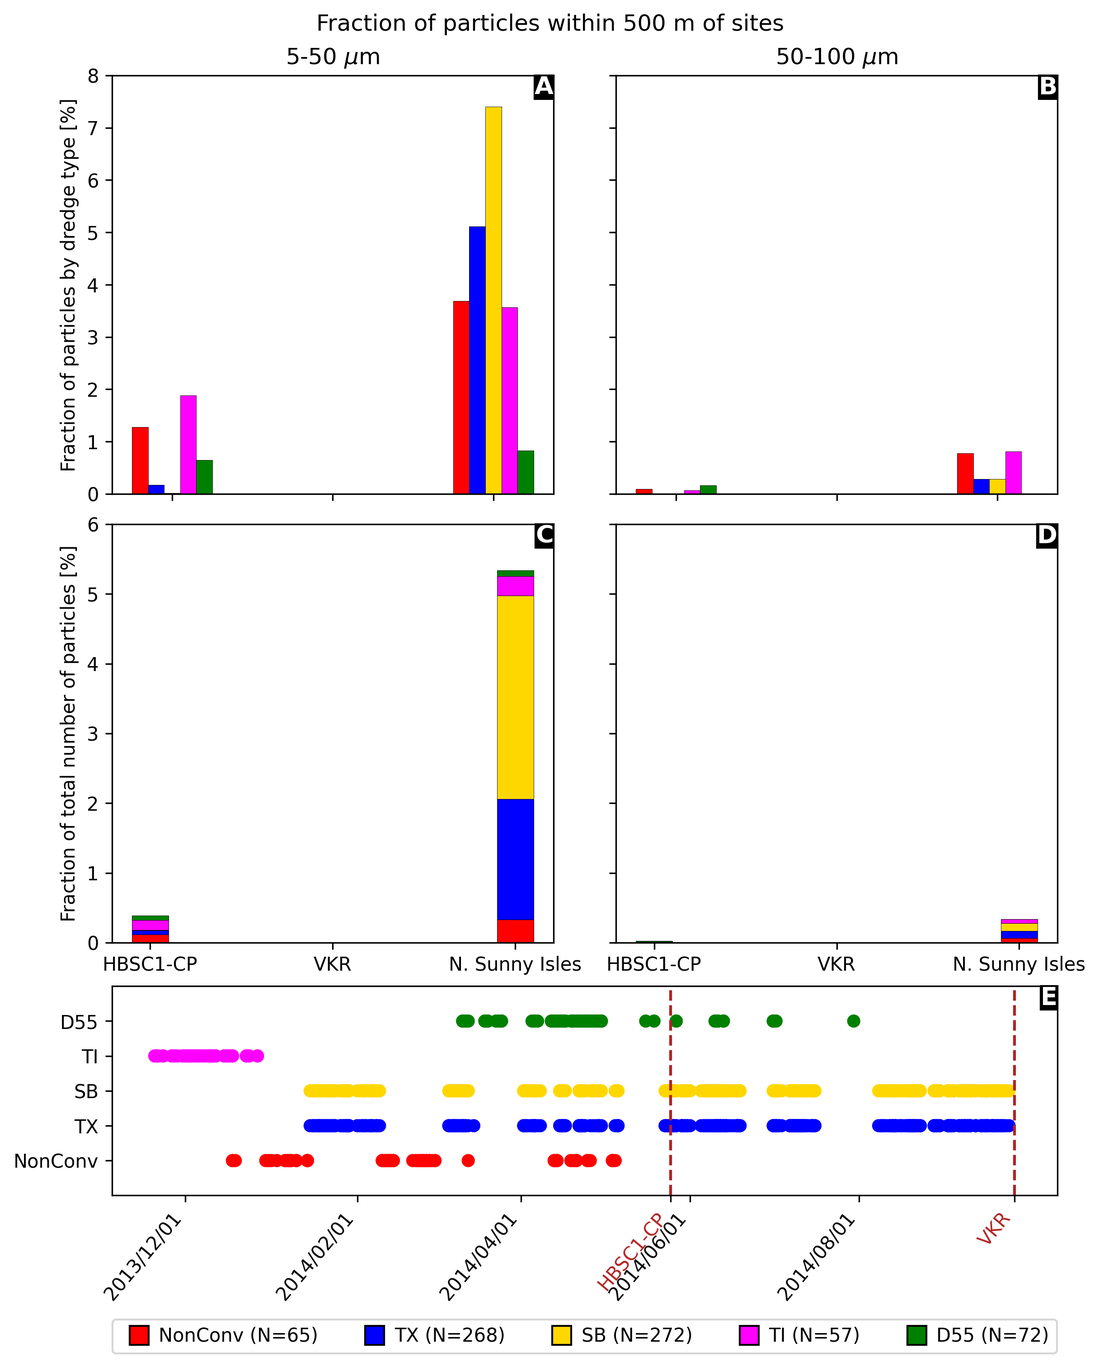
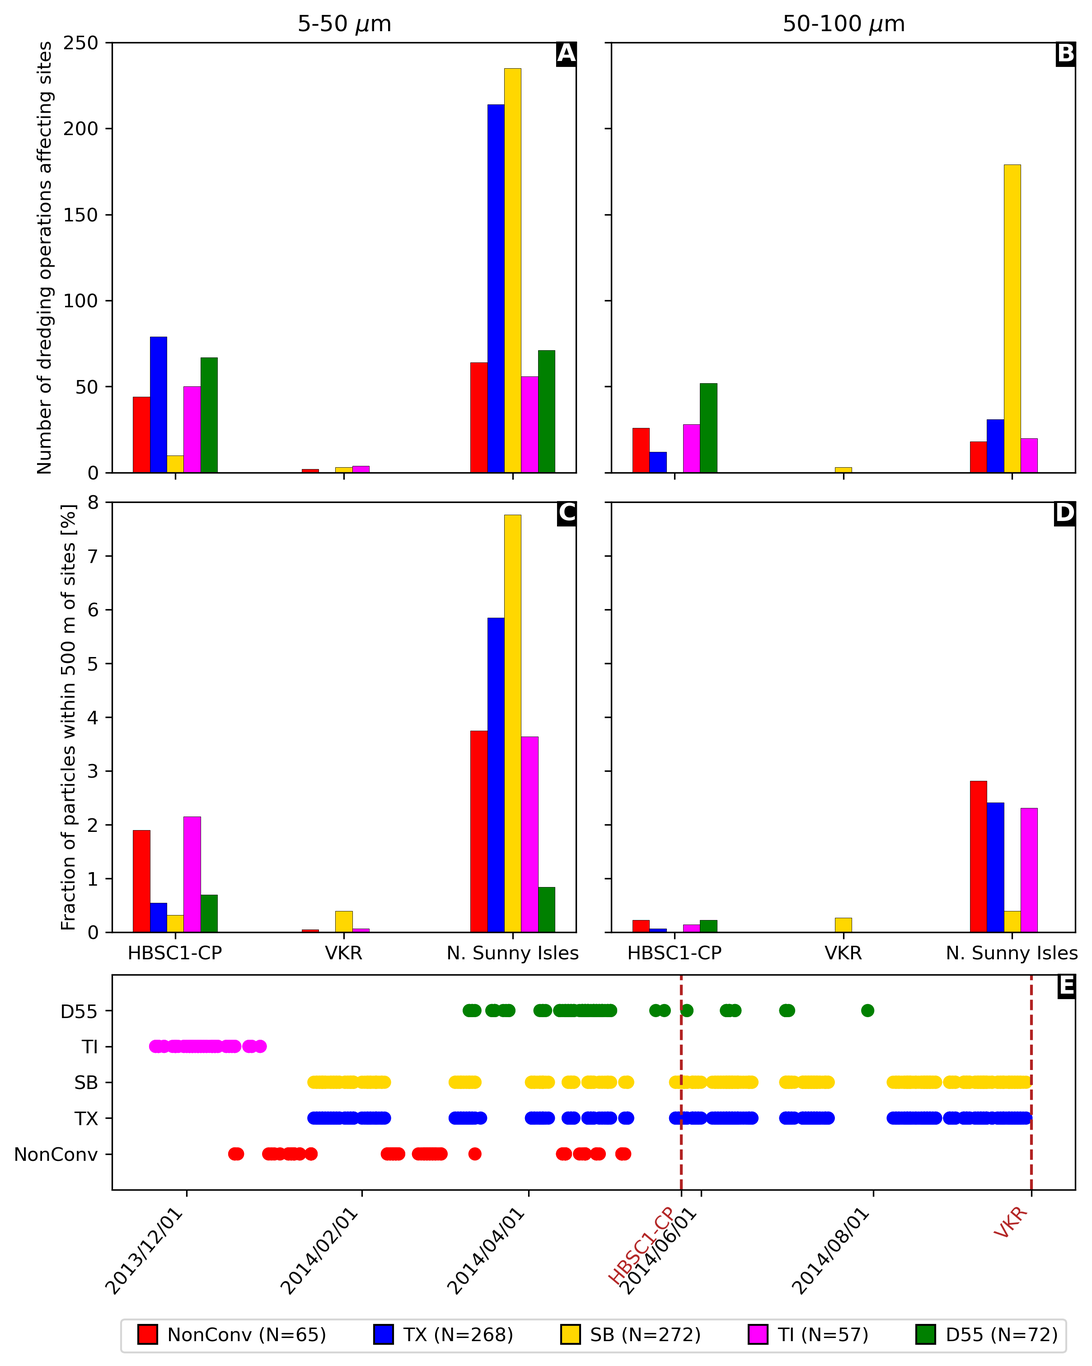
update barplot

Changed region(s): [[0.0, 0.0, 0.993, 0.995], [0.0931, 0.8707, 0.4965, 0.995], [0.1241, 0.7463, 0.2482, 0.7774]]

diff --git a/main.tex b/main.tex
@@ -281,11 +281,11 @@ As sediment dispersion is dependent on the grain size, we modeled the dispersal 
 
 Dredging operations performed during the expansion of PoM were characterized in our dataset by a date, a location and  a type of dredge (Fig. \ref{fig:onset_mesh}B). In the absence of information about the exact time of the dredging, sediment particles were released from the dredging location during a whole day at a rate of 80 particles/hour in the model. To account for the motion of spider barges between the dredging and disposal sites, particles were released every 500 m along a straight line joining the dredging location to the ODMDS (see Fig. \ref{fig:onset_mesh}A) for every dredging operation labelled as SB.
 
-The potential impact of the modeled sediments on reefs was first evaluated by quantifying the turbidity and sedimentation generated by the different dredging operations over coral reefs. The occurrence of high turbidity over reefs was assessed based on the concentration of suspended sediment particles in the model. This concentration was computed by counting the number of suspended particles inside the cells of a regular 200 m $\times$ 200 m grid over the entire computational domain. The modeled plumes were then compared against daily plume observations derived from satellite imagery by \cite{cunning2019extensive}\footnote{datasets available at \url{https://github.com/jrcunning/pom-dredge/}} following the methods of \cite{barnes2015sediment} at sites located within 15 km of the dredged channel. As in these two previous studies, we computed  the simulated plume frequency by dividing the number of days during which plumes occurred by the total number of simulated days for all grid cells. The impact of sedimentation was quantified by computing the cumulated concentration of settled particles within the same computational grid. This cumulated concentration was normalized by the total number of simulated time steps to obtain an averaged concentration of deposited particles over the simulated period. Higher values of this indicator would indicate larger sediment deposition over a longer cumulated time.
+The potential impact of the modeled sediments on reefs was first evaluated by quantifying the turbidity and sedimentation generated by the different dredging operations over coral reefs. The occurrence of high turbidity over reefs was assessed based on the concentration of suspended sediment particles in the model. This concentration was computed by counting the number of suspended particles inside the cells of a regular 200 m $\times$ 200 m grid over the entire computational domain. The modeled plumes were then compared against daily plume observations derived from satellite imagery by \cite{cunning2019extensive}\footnote{Datasets available at \url{https://github.com/jrcunning/pom-dredge/}} following the methods of \cite{barnes2015sediment} at sites located within 15 km of the dredged channel. As in these two previous studies, we computed  the simulated plume frequency by dividing the number of days during which plumes occurred by the total number of simulated days for all grid cells. The impact of sedimentation was quantified by computing the cumulated concentration of settled particles within the same computational grid. This cumulated concentration was normalized by the total number of simulated time steps to obtain an averaged concentration of deposited particles over the simulated period. Higher values of this indicator would indicate larger sediment deposition over a longer cumulated time.
 
 The potential impact of dredging on the onset of the SCTLD outbreak was summarized at five monitoring sites where signs of disease were reported. Four sites were reefs where disease was reported in 2014 by \cite{precht2016unprecedented}. The fifth site was station HBSC1-CP, monitored throughout the expansion of PoM, where signs of disease were already reported in May 2014 (\citealp{dial2017}; Fig. \ref{fig:onset_mesh}A, see supplementary material \ref{onset:appendice}). The impact of dredging was assessed by counting the total number of sediment particles originating from each dredging operation that were transported within 500 m of all five sites. This distance was chosen to match the scale of the 500 m $\times$ 500 m reef polygons used in the model \citep{dobbelaere2020coupled}, \modif{as well as the mesh size over reefs}. The resulting numbers of particles were then divided by the total number of sediment particles released by each type of dredging operation. Larger values of this indicator would suggest a greater impact of a given type of dredging operation at a given monitoring sites.  
 
-Additionally, \modif{the dispersal of particles was simulated backward in time from VKR and HBSC1-CP to identify the potential sources of pollution affecting these two sites. Ten particles were released from each site every 450 seconds between September 26, 2014, and October 15, 2013, for a total of 673770 particles by site. These simulations aimed at assessing the possibility of pollution by wastewater leaking from the Miami Central District Municipal WWTP discharge pipe \citep{gintert2019regional}. As leaking wastewater particles were expected to be positively buoyant (Precht, pers. comm.), there were advected backward in time by a combination of SLIM currents and surface Stokes drift from CMEMS' Ocean Wave Reanalysis dataset. We then computed risk maps by counting the number of particle trajectories intersecting each cell of a 200 m $\times$ 200 m grid, following the methodology of~\cite{anselain2023qatar}. This number was normalized by the total number of released particles to obtain the probability for each grid cell to be a source of pollution that would reach the monitoring sites.}
+Additionally, \modif{the dispersal of particles was simulated backward in time from VKR and HBSC1-CP to identify the potential sources of pollution affecting these two sites. Ten particles were released from each site every 450 seconds between September 26, 2014, and October 15, 2013, for a total of 673770 particles by site. These simulations aimed at assessing the possibility of pollution by wastewater leaking from the Miami Central District Municipal WWTP discharge pipe \citep{gintert2019regional}. As leaking wastewater particles were expected to be positively buoyant (Precht, \textit{pers. comm.}), there were advected backward in time by a combination of SLIM currents and surface Stokes drift from CMEMS' Ocean Wave Reanalysis dataset. We then computed risk maps by counting the number of particle trajectories intersecting each cell of a 200 m $\times$ 200 m grid, following the methodology of~\cite{anselain2023qatar}. This number was normalized by the total number of released particles to obtain the probability for each grid cell to be a source of pollution that would reach the monitoring sites.}
 % Neutral buoyancy of wastewater loads was assumed as a limiting scenario for purposes of this study: observations \citep{bloetscher2014use,wanninkhof2005farfield} suggest that buoyant plumes may transport wastewater several kilometers under prevailing currents and winds in this region.
 \modif{This probability was then integrated along the wastewater discharge pipe, modeled as a straight line between Miami Central District Municipal WWTP, located on Virginia Key, and the ocean discharge outfall located at 25$^\circ$44'31''N 80$^\circ$05'10''W \citep{koopman2006ocean}.}
 
@@ -326,20 +326,19 @@ Only grain sizes in the 5-50 $\mu$m range produced plumes consistent with the ob
 \end{figure}
 
 % FIGURE 2 - DEPOSITION
-Deposition results are shown for grain sizes corresponding to silts, which are more likely to carry organic matter and therefore more likely to carry SCTLD agents \citep{erftemeijer2012environmental}(Fig.~\ref{fig:onset_depo}B,C). Sedimentation mostly occurred on reefs located north of the dredge channel, \modif{although some sediment particles deposited along the coastlines of Virginia Key, Key Biscayne and Miami for all modeled grain sizes}. For grain sizes finer than 50$\mu$m, sediments mostly settled on inshore reefs \modif{and along coastlines}, while sedimentation mostly took place on offshore reefs for grain size coarser than 50$\mu$m. \modif{Furthermore, sediment particles finer than 50 $\mu$m, deposited further south and west, with deposition occurring at all pixels between mainland Florida and the reef line. The normalized cumulated depositions at HBSC1-CP and N. Sunny Isles were respectively $\sim6\time10^{-3}$ and $\sim4\times10^{-5}$ for grain sizes of 5-50 $\mu$m, and  $\sim3.8\times10^{-4}$ and $\sim8.3\times 10^{-6}$ for grain sizes of 50-100 $\mu$m. The deposition at these two sites therefore decreased with increasing grain sizes. Although no deposition was recorded in the grid cell containing VKR site, normalized cumulated deposition of $\sim1.27\times10^{-7}$ (resp. $\sim 8.4\times10^{-5}$) was observed in neighboring grid cells for grains sizes of 5-50 $\mu$m (resp. 50-100 $\mu$m).} %The normalized cumulated deposition was around 0.01 particles/m$^2$ at site HBSC1-CP for all grain sizes while it increased from $2.5\times 10^{-7}$ to $1.6\times 10^{-3}$ with increasing grain size at \modif{VKR}.
+Deposition results are shown for grain sizes corresponding to silts, which are more likely to carry organic matter and therefore more likely to carry SCTLD agents \citep{erftemeijer2012environmental}(Fig.~\ref{fig:onset_depo}B,C). Sedimentation mostly occurred on reefs located north of the dredge channel, \modif{although some sediment particles deposited along the coastlines of Virginia Key, Key Biscayne and Miami for all modeled grain sizes}. For grain sizes finer than 50$\mu$m, sediments mostly settled on inshore reefs \modif{and along coastlines}, while sedimentation mostly took place on offshore reefs for grain size coarser than 50$\mu$m. \modif{Furthermore, sediment particles finer than 50 $\mu$m, deposited further south and west, with deposition occurring at all pixels between mainland Florida and the reef line. The normalized cumulated depositions at HBSC1-CP and N. Sunny Isles were respectively $\sim6\times10^{-3}$ and $\sim4\times10^{-5}$ for grain sizes of 5-50 $\mu$m, and  $\sim3.8\times10^{-4}$ and $\sim8.3\times 10^{-6}$ for grain sizes of 50-100 $\mu$m. The deposition at these two sites therefore decreased with increasing grain sizes. Although no deposition was recorded in the grid cell containing VKR site, normalized cumulated deposition of $\sim1.27\times10^{-7}$ (resp. $\sim 8.4\times10^{-5}$) was observed in neighboring grid cells for grains sizes of 5-50 $\mu$m (resp. 50-100 $\mu$m).} %The normalized cumulated deposition was around 0.01 particles/m$^2$ at site HBSC1-CP for all grain sizes while it increased from $2.5\times 10^{-7}$ to $1.6\times 10^{-3}$ with increasing grain size at \modif{VKR}.
 
 % FIGURE 3
-\modif{Except for HBSC1-CP, the monitoring sites located south of the dredged channel were not impacted by a significant fraction of the released sediment particles (Fig.~\ref{fig:onset_bar}). The fraction of released particles reaching VKR site was around $0.001$\% and below $0.0001$\% at Rainbow Reef and Emerald Reef. On the other hand, N. Sunny Isles was the most impacted site, and received up to 12 times more sediment particles than HBSC1-CP. However, the vast majority of the modeled sediment particles ($>90\%$) did not reach any monitoring site. Furthermore, the number of sediment particles reaching the monitoring sites decreased with increasing grain sizes. On average, the total number of particles reaching HBSC1-CP and N. Sunny Isles decreased by $\sim95$\% when the grain size increased from 5-50~$\mu$m to 50-100~$\mu$m. For grain sizes finer than 50~$\mu$m, spider barges (SB) were the dominant source of sediments to N. Sunny Isles, with $>7$\% of the released sediments reaching the site. Monitoring sites received a non-negligible fraction of the sediments released by non-conventional dredging, as it was the second to third most important source of sediments reaching both N. Sunny Isles and HBSC1-CP. This relative metrics might however underestimate the impact of non-conventional dredging operations, as they were expected to release more sediments in the water columns than other types of dredging.} 
+\modif{The sediment particles with grain size 5-50~$\mu$m (resp. 50-100~$\mu$m) released by 87 \% (resp. 34~\%) of all simulated dredging operations reached N Sunny Isles, making it the reef site most impacted by the simulated dredging operations (Fig.~\ref{fig:onset_bar}). HBSC1-CP was the second most impacted site and was affected by 34~\% (resp. 16~\%) of dredging operation with grain sizes of 5-50~$\mu$m (resp. 50-100~$\mu$m). VKR was the third most impacted site, and received at most 0.4\% of the sediment particles released by $<10$ simulated dredging operations. Finally, Rainbow reef and Emerald Reef were marginally impacted by 1 TI dredging. Most modeled sediment particles ($>90$~\%) were not transported within 500~m of the reef sites, and the fraction of particles reaching the monitoring sites decreased with increasing grain sizes. Spider barges were the main sources of sediment particles reaching N. Sunny Isles and VKR. Nonetheless, N. Sunny Isles, VKR and HBSC1-CP were all impacted by non-conventional dredging for grain sizes finer than 50~$\mu$m. Respectively 3.75~\% and 1.9~\% of 5-50~$\mu$m sediment particles produced by non-conventional dredging operation affecting N. Sunny Isles and HBSC1-CP reached these two sites, and respectively 2.8~\% and 0.22~\% for grain sizes of 50-100~$\mu$m. Finally, 0.05~\% of 5-50~$\mu$m sediment particles produced by non-conventional dredging operations affecting VKR reached this site. However, as non-conventional dredging was expected to release more sediments in the water column, this relative metrics might underestimate the impact of non-conventional dredging operations.} 
 
 \begin{figure}
 	\centering
 	\includegraphics[width=.85\textwidth]{figures/aggregated_stokes4_v3_500m_timeline_new.png}
-	% \includegraphics[width=.7\textwidth]{figures/aggregated_stokes4_1000m_timeline.png}
-	\caption{Fraction of the modeled sediment particles released by each dredging operations that drifted within 500 m of \modif{HBSC1-CP, VKR and N. Sunny Isles} for grain sizes of (\textbf{A}) 5-50 $\mu$m  and (\textbf{B}) 50-100 $\mu$m. Fraction of the total number of modeled sediment particles that drifted within 500 m of \modif{HBSC1-CP, VKR and N. Sunny Isles} for grain sizes of (\textbf{C}) 5-50 $\mu$m  and (\textbf{D}) 50-100 $\mu$m. \textbf{E}: Temporal distribution of the simulated dredging operations. The dates of the first reported disease signs at each monitoring site are shown with dotted vertical lines in dark red. Except for HBSC1-CP, the sites located south to the dredged channel were barely impacted by dredging operations, while the northern site of N. Sunny Isles received up to 12 times more sediment particles than HBSC1-CP. The number of simulated dredging operations (N) is given between brackets for each dredging type.}\label{fig:onset_bar}
+	\caption{\modif{Number of simulated dredging operations producing sediment particles that were transported within 500~m of HBSC1-CP, VKR and N. Sunny Isles for grain sizes of (\textbf{A}) 5-50 $\mu$m  and (\textbf{B}) 50-100 $\mu$m. Fraction of the sediment particles produced by these operations transported within 500~m of HBSC1-CP, VKR and N. Sunny Isles for grain sizes of (\textbf{C}) 5-50 $\mu$m  and (\textbf{D}) 50-100 $\mu$m. \textbf{E}: Temporal distribution of the simulated dredging operations. The dates of the first reported disease signs at each monitoring site are shown with dotted vertical lines in dark red. The total number of simulated dredging operations (N) is given between brackets for each dredging type. N. Sunny Isles was the most affected site. All three sites were impacted by non-conventional dredging for grain sizes finer than 50~$\mu$m, and both VKR and N. Sunny Isles were mostly impacted by spider barges (SB)}}\label{fig:onset_bar}
 \end{figure}
 
 % FIGURE 4
-\modif{Backtracking of particles from HBSC1-CP and VKR suggest that the most probable source of pollution to these sites were located within narrow `cones' directly south of their location (Fig.~\ref{fig:backtrack})\%. Inside these cones, the probability for pollutants to reach the sites decreases southward with the distance to the sites and drops below 30\% after 200~m away, below 10\% after 1700~m away, below 5\% after 4~km, and below 1\%  30~km away from the sites. Outside these cones, the probability to reach VKR and HBSC1-CP quickly decreases below 1\%. This suggests that it was possible (although improbable) for positively buoyant pollutant coming from Miami or the dredged channel to reach the monitoring sites. Integrating the probability of arrival along the wastewater discharge pipe, we find that the probability for pollutants leaking from the pipe to reach HBSC1-CP (located south of the pipe) remains below 5\% along the pipe. However, the probability for leaking pollutants to reach VKR site (located north of the pipe) was up to 40\% at the position of the site and dropped below 1\% 500~m away from the sites. This suggests that pollutant leaking from the pipe were unlikely to affect VKR if the leaking was located $>500$~m away from the site.}
+\modif{Backtracking of particles from HBSC1-CP and VKR suggest that the most probable source of pollution to these sites were located within narrow `cones' directly south of their location (Fig.~\ref{fig:backtrack})\%. Inside these cones, the probability for pollutants to reach the sites decreases southward with the distance to the sites and drops below 30\% after 200~m away, below 10\% after 1700~m away, below 5\% after 4~km, and below 1\%  30~km away from the sites. Outside these cones, the probability to reach VKR and HBSC1-CP quickly decreases below 1\%. This suggests that it was possible (although improbable) for positively buoyant pollutant coming from Miami or the dredged channel to reach the monitoring sites. Integrating the probability of arrival along the wastewater discharge pipe, we find that the probability for pollutants leaking from the pipe to reach HBSC1-CP (located south of the pipe) remains below 5\% along the pipe. However, the probability for leaking pollutants to reach VKR site (located north of the pipe) was up to 40\% at the position of the site and dropped below 1\% 500~m away from the sites. This suggests that pollutant leaking from the pipe were unlikely to affect VKR unless the leak was located within $500$~m from the site.}
 
 % \begin{figure}
 % 	\centering
@@ -351,12 +350,12 @@ Deposition results are shown for grain sizes corresponding to silts, which are m
 \begin{figure}
     \centering
     \includegraphics[width=.98\textwidth]{figures/fig_proba_stokes.png}
-    \caption{\modif{Spatial distribution of the probability to be a source of positively buoyant pollutants reaching HBSC1-CP (\textbf{top left}) and VKR (\textbf{top right}). \textbf{Bottom}: Integration of this probability along the discharge pipe of Miami Central District Municipal WWTP. Most likely sources of pollutants were located within a few kilometers south of HBSC1-CP and VKKR.}}
+    \caption{\modif{Spatial distribution of the probability to be a source of positively buoyant pollutants reaching HBSC1-CP (\textbf{top left}) and VKR (\textbf{top right}). \textbf{Bottom}: Integration of this probability along the discharge pipe of Miami Central District Municipal WWTP. Most likely sources of pollutants were located within a few kilometers south of HBSC1-CP and VKR.}}
     \label{fig:backtrack}
 \end{figure}
 
 % FIGURE 5 
-As signs of disease were observed at site HBSC1-CP in May 2014, before the first observations of SCTLD at VKR in September 2014, we assessed the presence of shortest paths from HBSC1-CP to VKR in the modeled monthly disease connectivity networks between May and September 2014 (Fig. \ref{fig:onset_path}). We found connectivity pathways connecting the two sites during all months of May-September 2014, except for July. This suggests that there was a possibility of disease propagation from HBSC1-CP to VKR during most of these 5 months. However, we found no direct pathway connecting the two sites. Southern intermediary reefs were systematically needed as stepping stones for the propagation of the disease. This suggests that several months might have been required for disease agents to reach VKR from HBSC1-CP. Moreover, the shortest paths in June, August and September 2014 had many sub-reef stepping stones in common. These similar connectivity patterns indicate favorable conditions for disease propagation over several months from HBSC1-CP to VKR during this period. 
+As \modif{potential} signs of disease were observed at site HBSC1-CP in May 2014, before the first observations of SCTLD at VKR in September 2014, we assessed the presence of shortest paths from HBSC1-CP to VKR in the modeled monthly disease connectivity networks between May and September 2014 (Fig. \ref{fig:onset_path}). We found connectivity pathways connecting the two sites during all months of May-September 2014, except for July. This suggests that there was a possibility of disease propagation from HBSC1-CP to VKR during most of these 5 months. However, we found no direct pathway connecting the two sites. Southern intermediary reefs were systematically needed as stepping stones for the propagation of the disease. This suggests that several months might have been required for disease agents to reach VKR from HBSC1-CP. Moreover, the shortest paths in June, August and September 2014 had many sub-reef stepping stones in common. These similar connectivity patterns indicate favorable conditions for disease propagation over several months from HBSC1-CP to VKR during this period. 
 % * <thomas.dobbelaere@uclouvain.be> 13:26:22 18 May 2022 UTC+0200:
 % Lew: should be justify why no observation of SCTLD at VKR in the meantime
 
@@ -371,7 +370,7 @@ As signs of disease were observed at site HBSC1-CP in May 2014, before the first
 \section{Discussion}
 
 % SUMMARY
-The quasi-3D sediment model forced by currents from the high-resolution coastal ocean model SLIM reproduced sediment dynamics consistent with plume observations derived from satellite imagery and in-water observations of sediment deposition at selected sites. It suggests that sediment particles produced by dredging were mostly transported northward under the influence of the Florida Current. No sediment particles reached the southern sites of Rainbow Reef and Emerald Reef while dredging had limited direct impact on VKR, identified as the site where the outbreak of SCTLD was initiated in September 2014 \citep{precht2016unprecedented}. Furthermore, our results indicate that it is unlikely that the reefs sites VKR and HBSC1-CP were affected by a leaking discharge pipe of Miami Central District Municipal WWTP, as suggested by \cite{gintert2019regional}. However, signs of disease were observed prior to September 2014 at the sites of N. Sunny Isles and HBSC1-CP, where the impact of dredging was greater. Up to 17\% of silt particles produced by non-conventional dredging operations reached coral reefs of N. Sunny Isles while 3\% of them reached site HBSC1-CP, where significant sedimentation occurred. Furthermore, monthly disease connectivity networks indicate that disease agents could be transmitted from HBSC1-CP to the site of VKR through multistep connectivity pathways.   
+The quasi-3D sediment model forced by currents from the high-resolution coastal ocean model SLIM reproduced sediment dynamics consistent with plume observations derived from satellite imagery and in-water observations of sediment deposition at selected sites. It suggests that sediment particles produced by dredging were mostly transported northward under the influence of the Florida Current. No sediment particles reached the southern sites of Rainbow Reef and Emerald Reef while dredging had limited direct impact on VKR, identified as the site where the outbreak of SCTLD was initiated in September 2014 \citep{precht2016unprecedented}. Furthermore, our results indicate that it is unlikely that the reefs sites VKR and HBSC1-CP were affected by \modif{pollutant leaking from the} discharge pipe of Miami Central District Municipal WWTP \modif{unless the leak was located within 500 m from the sites}. \modif{Although some uncertainties remain, there is a possibility that disease signs were observed prior to September 2014 at the sites of N. Sunny Isles and HBSC1-CP, where both sediment plumes and deposition occurred in the simulations}. Furthermore, monthly disease connectivity networks indicate that disease agents could be transmitted from HBSC1-CP to the site of VKR through multistep connectivity pathways.   
 % * <thomas.dobbelaere@uclouvain.be> 15:23:56 18 May 2022 UTC+0200:
 % Lew: to Dan and Erinn -> reliability of N. Sunny Isles observations ?
 % ^ <thomas.dobbelaere@uclouvain.be> 15:24:56 18 May 2022 UTC+0200:
